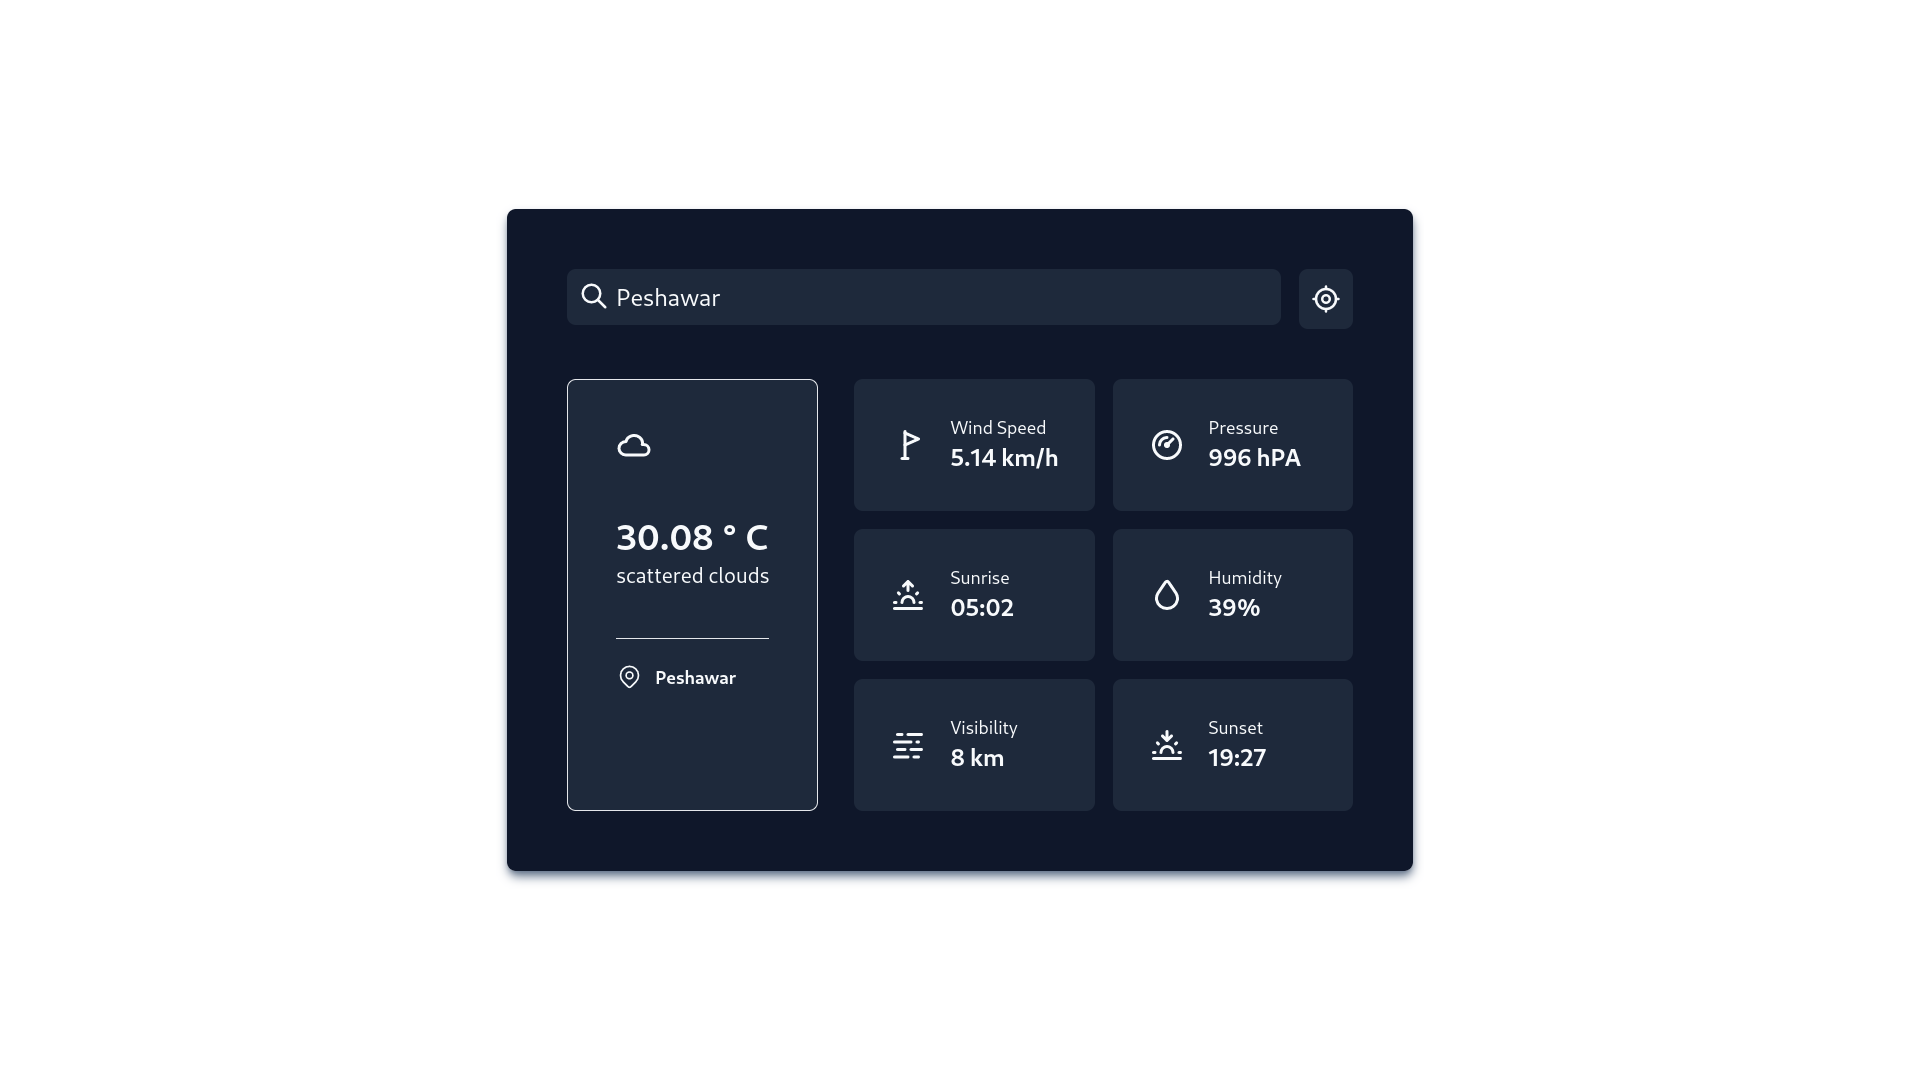
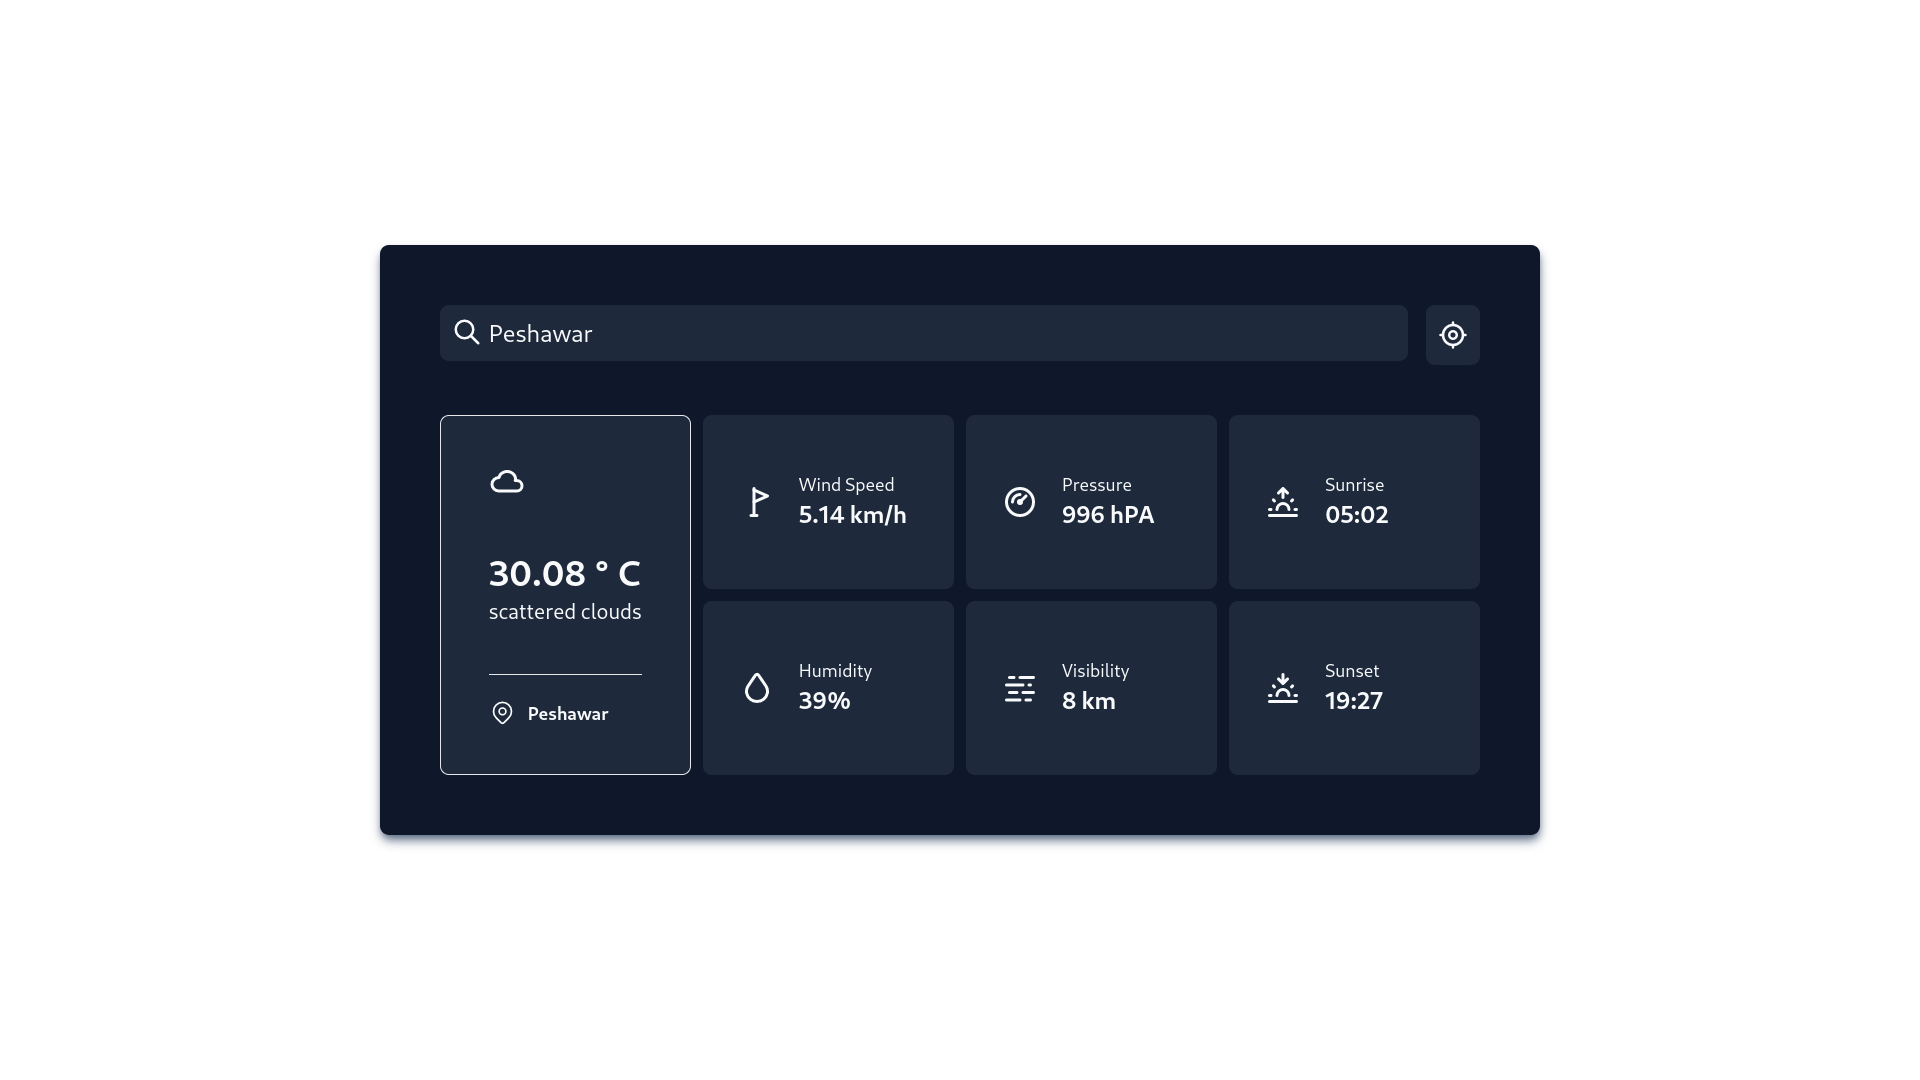
Make layout responsive

diff --git a/src/App.tsx b/src/App.tsx
@@ -26,16 +26,16 @@ function App() {
     <div className="h-screen w-full flex justify-center items-center">
       <div className="flex flex-col gap-4 shadow-md shadow-slate-500 p-10 bg-slate-900 text-slate-50 rounded-md">
         <CitySearch isLoading={isLoading} isError={isError} city={city} setCity={setCity} handleSubmit={handleSubmit} />
-        <div className="flex gap-6">
-          <MainInfoCard weather={weather} weather_description={weather_description} temp={temp} location={location} />
-          <div className="flex-1 grid grid-cols-2 gap-3">
-            <InfoCard Icon={<IconPennant />} title="Wind Speed" value={wind && `${wind} km/h` || "N/A"} />
-            <InfoCard Icon={<IconGauge />} title="Pressure" value={pressure && `${pressure} hPA` || "N/A"} />
-            <InfoCard Icon={<IconSunrise />} title="Sunrise" value={sunrise && sunrise && formatTime(sunrise, timezone) || "N/A"} />
-            <InfoCard Icon={<IconDroplet />} title="Humidity" value={humidity && `${humidity}%` || "N/A"} />
-            <InfoCard Icon={<IconMist />} title="Visibility" value={visibility && `${visibility / 1000} km` || "N/A"} />
-            <InfoCard Icon={<IconSunset />} title="Sunset" value={sunset && sunset && formatTime(sunset, timezone) || "N/A"} />
+        <div className="grid grid-cols-2 md:grid-cols-4 gap-2">
+          <div className="col-start-1 col-span-2 md:row-start-1 md:row-span-2 md:col-start-1 md:col-span-1">
+            <MainInfoCard weather={weather} weather_description={weather_description} temp={temp} location={location} />
           </div>
+          <InfoCard Icon={<IconPennant />} title="Wind Speed" value={wind && `${wind} km/h` || "N/A"} />
+          <InfoCard Icon={<IconGauge />} title="Pressure" value={pressure && `${pressure} hPA` || "N/A"} />
+          <InfoCard Icon={<IconSunrise />} title="Sunrise" value={sunrise && sunrise && formatTime(sunrise, timezone) || "N/A"} />
+          <InfoCard Icon={<IconDroplet />} title="Humidity" value={humidity && `${humidity}%` || "N/A"} />
+          <InfoCard Icon={<IconMist />} title="Visibility" value={visibility && `${visibility / 1000} km` || "N/A"} />
+          <InfoCard Icon={<IconSunset />} title="Sunset" value={sunset && sunset && formatTime(sunset, timezone) || "N/A"} />
         </div>
       </div>
     </div >
